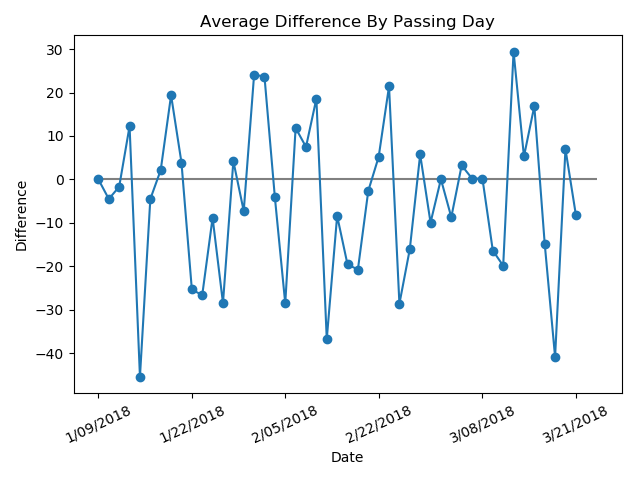
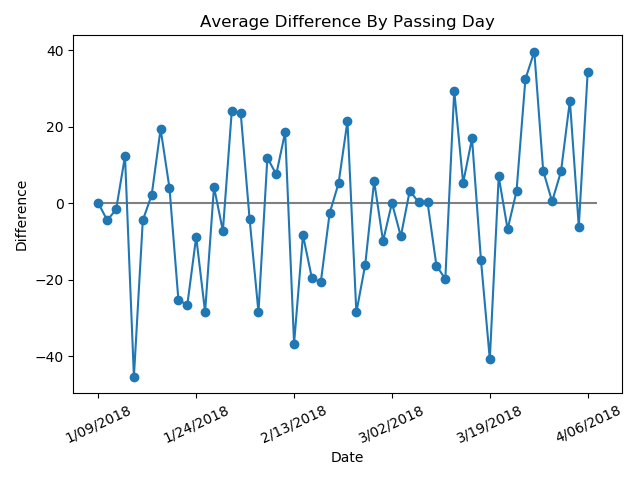
update 4/6

diff --git a/pjeej.py b/pjeej.py
@@ -48,10 +48,18 @@ with open("timein.csv","a",newline="") as csvfile:
 	# writer.writerow(["3/14/2018","Wednesday","8:52", "31"])
 	# writer.writerow(["3/15/2018","Thursday","9:04", "35"])
 	# writer.writerow(["3/16/2018","Friday","8:32", "31"])
-	# writer.writerow(["3/19/2018","Monday","8:05", "30"])
+	# writer.writerow(["3/19/2018","Monday","8:05", "30"]) #[13]
 	# writer.writerow(["3/20/2018","Tuesday","8:53", "30"])
-	# writer.writerow(["3/22/2018","Wednesday","8:39", "34"])
-	# writer.writerow(["3/21/2018","Thursday","8:49", "34"])
+	# writer.writerow(["3/21/2018","Wednesday","8:39", "34"])
+	# writer.writerow(["3/22/2018","Thursday","8:49", "34"])
+	# writer.writerow(["3/27/2018","Tuesday","9:19", "36"]) #[14]
+	# writer.writerow(["3/28/2018","Wednesday","9:27", "41"])
+	# writer.writerow(["3/29/2018","Thursday","8:56", ""]) #[15]
+	# writer.writerow(["3/30/2018","Friday","8:48", "61"])
+	# writer.writerow(["4/03/2018","Tuesday","8:56", ""])
+	# writer.writerow(["4/04/2018","Wednesday","9:15", "50"])
+	# writer.writerow(["4/05/2018","Thursday","8:42", ""])
+	writer.writerow(["4/06/2018","Friday","9:23", "38"])
 # [1] according to him, left at 8:30 night before 1/12/2018
 # [2] came in before I did 1/15
 # [3] did not check temperature until 9:50 1/15
@@ -65,3 +73,5 @@ with open("timein.csv","a",newline="") as csvfile:
 # [11] came in before I did 2/26
 # [12] inclement weather; overheard him saying that he had to maintain gas station
 # [13] 3/19 in before me
+# [14] flew back from his vacation on same day
+# [15] came in after this recorded time and before 9:30
